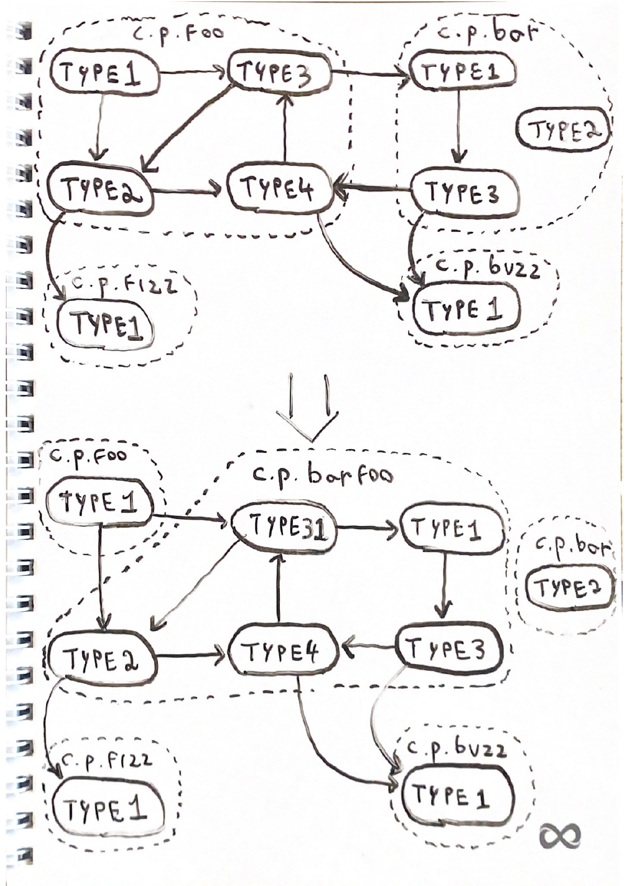
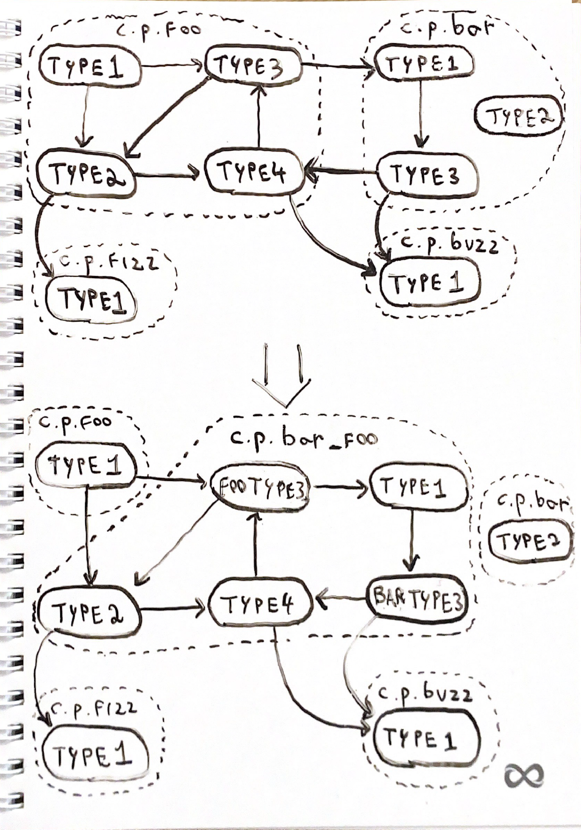
examples

diff --git a/conjure/cycles/README.md b/conjure/cycles/README.md
@@ -308,9 +308,10 @@ becomes
 "com.palantir.api_rootbar_rootfoo"
 ```
 
-In addition, we'll need to de-duplicate any types with conflicting names in the merging conjure packages. We'll do it by
-iterating over all times sorted by conjure package name and then type name. If we've already seen a type of the same
-name, we append number starting from 1 and increasing each time.
+In addition, we'll need to de-duplicate any types with conflicting names in the merging conjure packages.
+We'll do it by prepending the original conjure package name to the type name if a type is present more than one time
+in the Go package.
+If we've already seen a type of the same name, we append number starting from 1 and increasing each time.
 
 For example,
 ```json
@@ -322,8 +323,8 @@ For example,
 becomes
 ```json
 [
-  "com.palantir.a_b:Foo",
-  "com.palantir.a_b:Foo1"
+  "com.palantir.a_b:AFoo",
+  "com.palantir.a_b:BFoo"
 ]
 ```
 
@@ -419,6 +420,7 @@ Types `com.palantir.foo:Type2/3/4` and `com.palantir.bar:Type1/2` are grouped to
 There is exacly one node for each package set in the SCC graph. `disallowed` is empty for all SCCs,
 so the disallowed DAG has no edges.
 Each SCC is grouped into an unitary antichain in the disallowed DAG and therefore gets their own Go package.
-The SCC that contains package set `{com.palantir.foo,com.palantir.bar}` receives the Go package `com.palantir.barfoo`.
-Because it contains two types named `Type3`, `com.palantir.foo:type3` is renamed to `com.palantir.barfoo:Type31`.
+The SCC that contains package set `{com.palantir.foo,com.palantir.bar}` receives the Go package `com.palantir.bar_foo`.
+Because it contains two types named `Type3`, `com.palantir.foo:type3` is renamed to `com.palantir.barfoo:FooType3`
+and `com.palantir.bar:type3` is renamed to `com.palantir.barfoo:BarType3`.
 The resulting definition has one more package.
